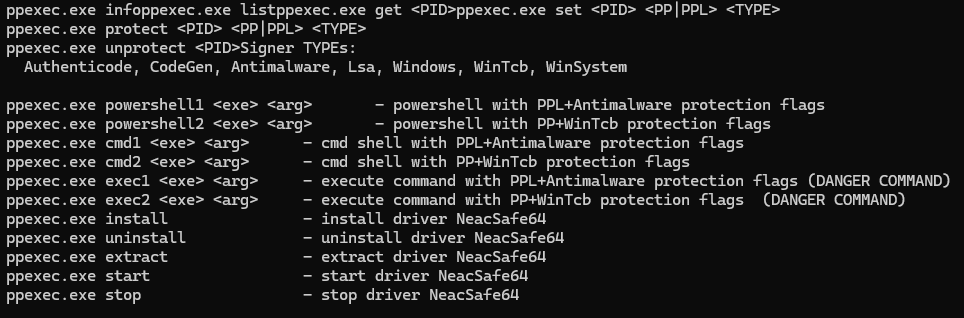
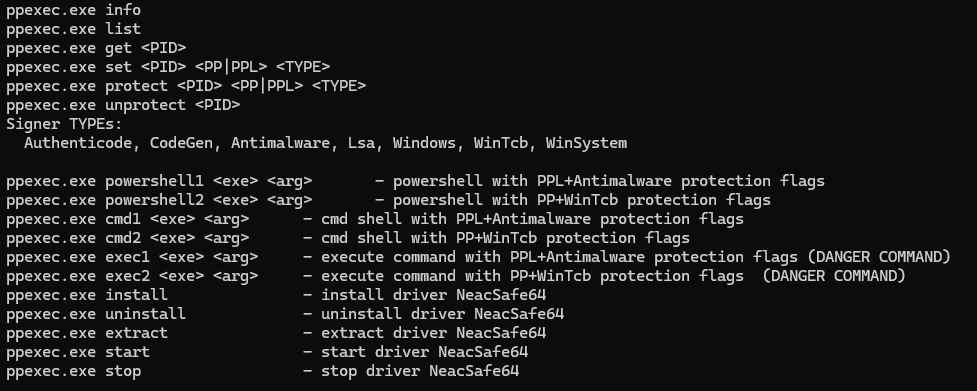
fix

Changed region(s): [[0.0, 0.0, 0.9959, 0.9623]]

diff --git a/ppexec/ppexec.cpp b/ppexec/ppexec.cpp
@@ -35,12 +35,12 @@ void SoftExit(HANDLE hPort, int exitCode);
 VOID PrintUsage(LPWSTR Prog);
 VOID PrintUsage(LPWSTR Prog)
 {
-    wprintf(SKW(L"ppexec.exe info"));
-    wprintf(SKW(L"ppexec.exe list"));
-    wprintf(SKW(L"ppexec.exe get <PID>"));
+    wprintf(SKW(L"ppexec.exe info\n"));
+    wprintf(SKW(L"ppexec.exe list\n"));
+    wprintf(SKW(L"ppexec.exe get <PID>\n"));
     wprintf(SKW(L"ppexec.exe set <PID> <PP|PPL> <TYPE>\n"));
     wprintf(SKW(L"ppexec.exe protect <PID> <PP|PPL> <TYPE>\n"));
-    wprintf(SKW(L"ppexec.exe unprotect <PID>"));
+    wprintf(SKW(L"ppexec.exe unprotect <PID>\n"));
     wprintf(SKW(L"Signer TYPEs:\n  Authenticode, CodeGen, Antimalware, Lsa, Windows, WinTcb, WinSystem\n"));
     wprintf(SKW(L"\n"));
     wprintf(SKW(L"ppexec.exe powershell1 <exe> <arg>\t - powershell with PPL+Antimalware protection flags\n"));
